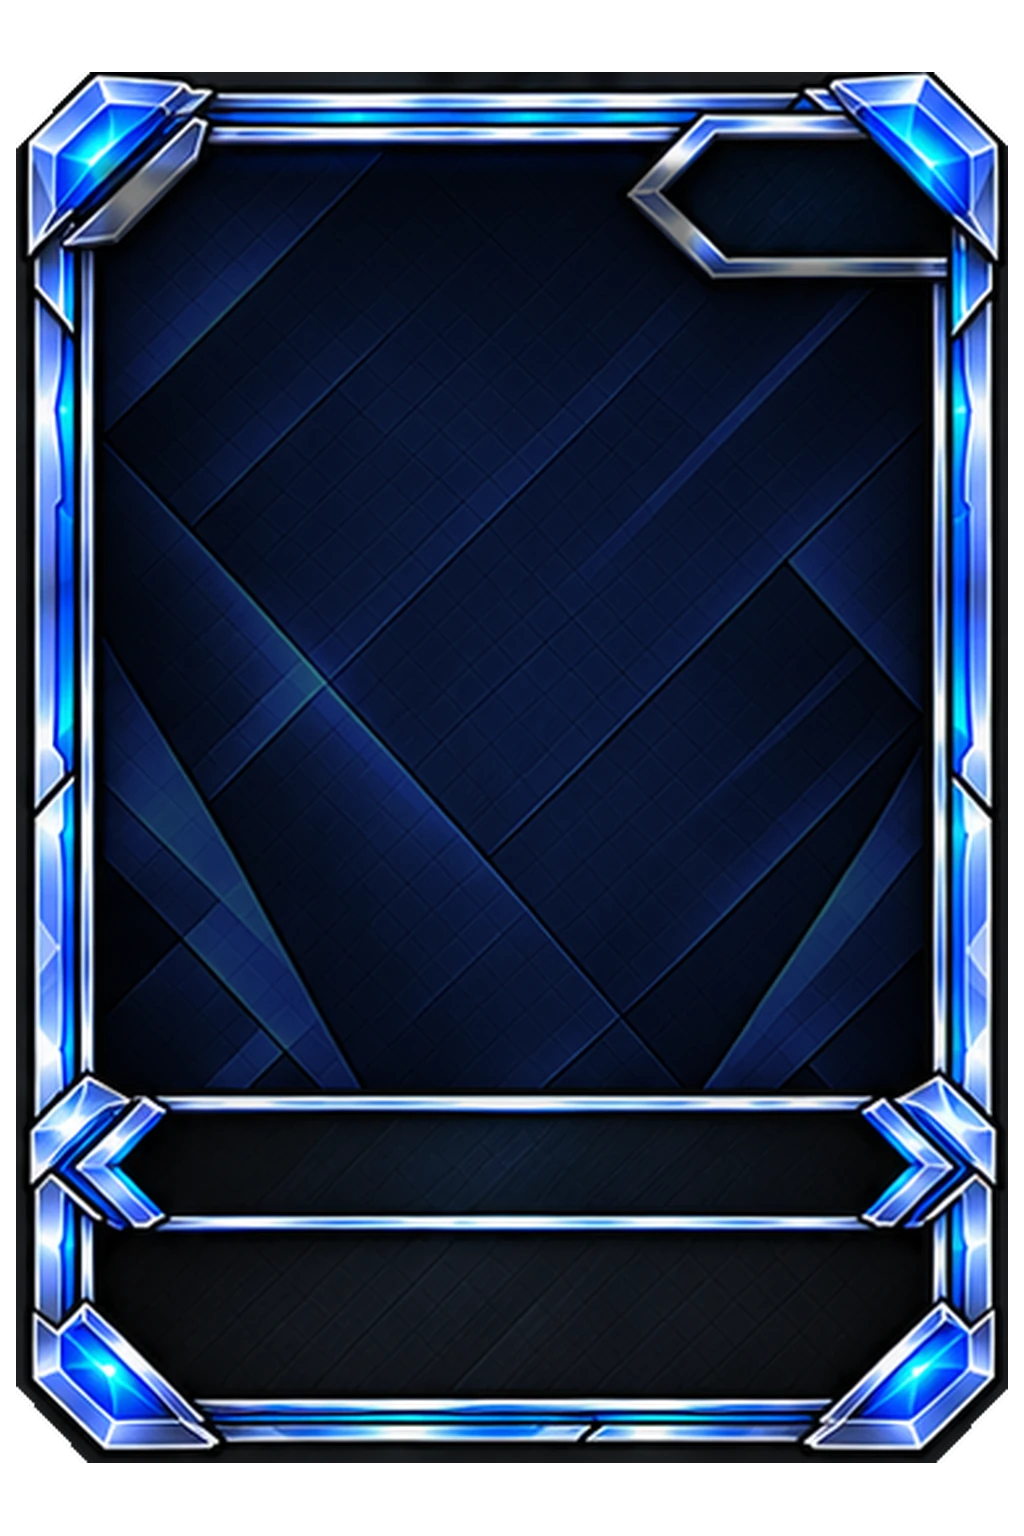
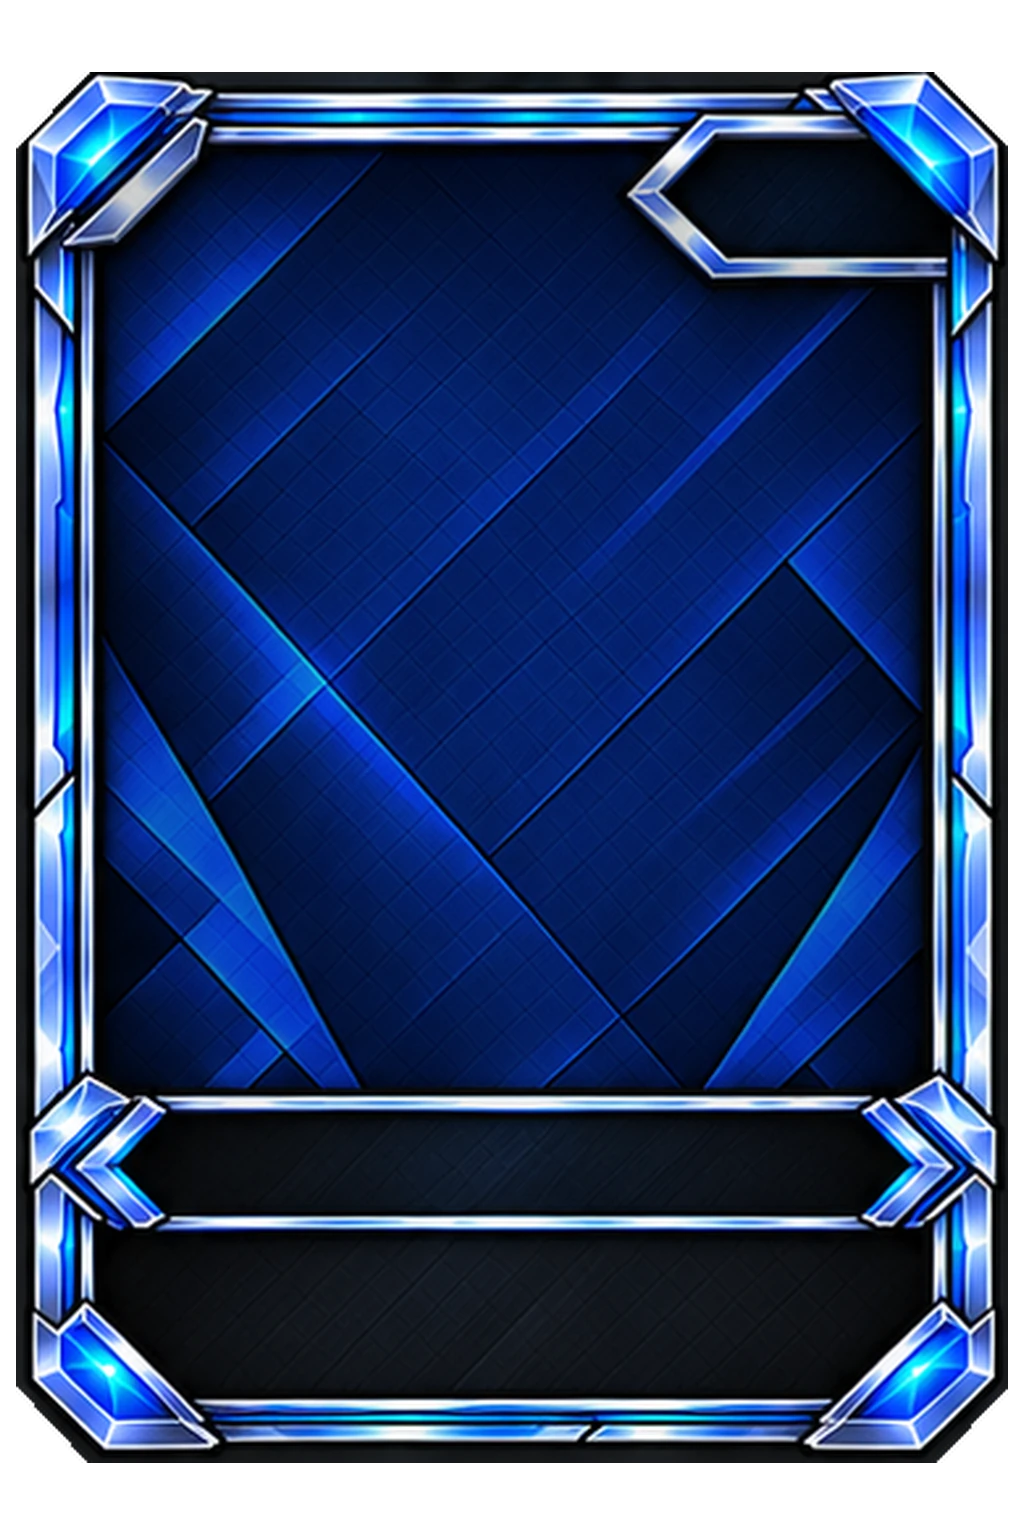
Cadres v2 : retour de la lumière dans les fonds, lumière sur UR (douce) et LR (plus forte), lettres de rareté plus grandes et intégrées
Claude-Session: https://claude.ai/code/session_01Nzi4d8Cz5nAUppiV1qqTjq

diff --git a/gymdeck-prototype/gymdeck/src/app/card-fx.css b/gymdeck-prototype/gymdeck/src/app/card-fx.css
@@ -107,8 +107,31 @@
 .fxgrid figcaption { margin-top: 12px; font-size: 14px; color: #cfd6e8; text-align: center; }
 .fxgrid figcaption b { font-family: var(--display); font-style: italic; font-size: 18px; margin-right: 4px; }
 
-/* ═════════ Cadres v2 (25 oct. 2026, demande d'Adrien) : plus aucun reflet, arc-en-ciel, lueur ni particule sur la carte ═════════
-   Les cartes rares gardent seulement l'inclinaison au doigt / à la souris. Supprimer ce bloc pour retrouver les anciens effets. */
+/* ═════════ Cadres v2 (25 oct. 2026, demandes d'Adrien) ═════════
+   C, R, SR, SSR : sobres, sans reflet ni lueur. UR : un peu de lumière. LR : plus de lumière que l'UR (reflet bleu/cyan/lavande, lueur, étincelles).
+   Toutes gardent l'inclinaison. */
 .cfx-sheen, .cfx-rainbow, .cfx-aura, .cfx-sparks, .fxl-sheen, .fxl-rainbow { display: none !important; }
-.cfx .cfx-in, .cfx-mat .card, .card.fxl-rare, .card.fxl-metal, .card.fxl-holo, .card.fxl-mat > img.frame, .card.fxl-mat .art { filter: none !important; }
-.card.fxl-mat .art, .cfx-mat .card .art { filter: drop-shadow(0 1.2cqw 1.6cqw rgba(0,0,0,.55)) !important; }
+.cfx .cfx-in, .cfx-mat .card, .card.fxl-rare, .card.fxl-metal, .card.fxl-holo, .card.fxl-mat > img.frame { filter: none !important; }
+
+/* UR : lueur dorée douce + reflet lent */
+.cfx-UR .cfx-in, .card.fxl-UR { filter: drop-shadow(0 0 2px rgba(255,214,120,.7)) drop-shadow(0 0 9px rgba(255,176,32,.35)) !important; }
+.cfx-UR .cfx-sheen, .fxl-UR .fxl-sheen { display: block !important; }
+.cfx-UR .cfx-sheen::before { content: ""; position: absolute; top: -20%; bottom: -20%; left: -60%; width: 55%; mix-blend-mode: screen;
+  background: linear-gradient(105deg, transparent, rgba(255,236,190,.06) 30%, rgba(255,236,190,.38) 50%, rgba(255,236,190,.06) 70%, transparent);
+  animation: cfxSweep 4.5s ease-in-out infinite; }
+.cfx-UR .cfx-sheen::after { content: none; }
+.fxl-UR .fxl-sheen { mix-blend-mode: screen; background: linear-gradient(115deg, transparent 32%, rgba(255,236,190,.22) 46%, transparent 58%); }
+
+/* LR : lueur bleu/cyan/lavande, reflet holographique léger, balayage de lumière, étincelles */
+.cfx-LR .cfx-in, .card.fxl-LR { filter: drop-shadow(0 0 2px rgba(190,230,255,.9)) drop-shadow(0 0 12px rgba(110,170,255,.55)) !important; }
+.cfx-LR .cfx-aura { display: block !important; background: radial-gradient(closest-side, rgba(120,190,255,.55), rgba(170,140,255,.22) 60%, transparent); }
+.cfx-LR .cfx-sheen, .cfx-LR .cfx-rainbow, .cfx-LR .cfx-sparks, .fxl-LR .fxl-sheen, .fxl-LR .fxl-rainbow { display: block !important; }
+.cfx-LR .cfx-rainbow { mix-blend-mode: soft-light; opacity: .32; }
+.cfx-LR .cfx-rainbow i, .fxl-LR .fxl-rainbow { background: repeating-linear-gradient(115deg, #7fd3ff 0%, #c9b6ff 8%, #e9f7ff 14%, #6aa8ff 21%, #b49bff 27%, #7fd3ff 33.33%) !important; }
+.fxl-LR .fxl-rainbow { mix-blend-mode: soft-light; opacity: .28 !important; }
+.cfx-LR .cfx-sheen::before { content: ""; position: absolute; top: -20%; bottom: -20%; left: -60%; width: 60%; mix-blend-mode: screen;
+  background: linear-gradient(105deg, transparent, rgba(220,240,255,.08) 30%, rgba(230,245,255,.55) 50%, rgba(220,240,255,.08) 70%, transparent);
+  animation: cfxSweep 3.4s ease-in-out infinite; }
+.cfx-LR .cfx-sheen::after { content: none; }
+.cfx-LR .cfx-sparks i { box-shadow: 0 0 6px 1px #9fd8ff; }
+.fxl-LR .fxl-sheen { mix-blend-mode: screen; background: linear-gradient(115deg, transparent 30%, rgba(230,245,255,.3) 45%, transparent 58%); }

diff --git a/gymdeck-prototype/gymdeck/src/app/globals.css b/gymdeck-prototype/gymdeck/src/app/globals.css
@@ -89,7 +89,11 @@ h2.section { font-family: var(--display); font-style: italic; font-weight: 800; 
 .card .artwin { position: absolute; inset: 0; overflow: hidden; pointer-events: none; }
 .card .art { position: absolute; object-fit: contain; object-position: center bottom; filter: drop-shadow(0 1.2cqw 1.6cqw rgba(0,0,0,.55)); }
 .card .artwin .floor { position: absolute; border-radius: 50%; background: radial-gradient(closest-side, rgba(0,0,0,.6), transparent); }
-.card .badge { position: absolute; display: grid; place-items: center; font-family: var(--display); font-style: italic; font-weight: 800; font-size: 7.4cqw; line-height: 1; padding-right: 1.6cqw; }
+.card .badge { position: absolute; display: grid; place-items: center; font-family: var(--display); font-style: italic; font-weight: 900; font-size: 10cqw; line-height: 1; letter-spacing: -.02em; padding-right: 1.4cqw; z-index: 2; }
+/* lettre de rareté intégrée au cartouche : dégradé de la couleur vers le blanc, contour sombre, relief */
+.card .badge > b { font-weight: 900; background: linear-gradient(180deg, #fff 0%, var(--bc) 55%, color-mix(in srgb, var(--bc) 60%, #000) 100%); -webkit-background-clip: text; background-clip: text; color: transparent;
+  -webkit-text-stroke: .35cqw rgba(0,0,0,.75); paint-order: stroke fill; filter: drop-shadow(0 .5cqw .5cqw rgba(0,0,0,.6)); }
+.card .badge.long { font-size: 8.4cqw; }
 .card .nameband { position: absolute; display: flex; align-items: center; justify-content: center; text-align: center; font-family: var(--display); font-style: italic; font-weight: 800; text-transform: uppercase; font-size: 7cqw; line-height: .98; padding: 0 2cqw; overflow: hidden; }
 .card .nameband > span { line-height: 1.15; padding-top: .08em; display: -webkit-box; -webkit-line-clamp: 2; -webkit-box-orient: vertical; overflow: hidden; overflow-wrap: anywhere; }
 .card .cstats { position: absolute; display: grid; grid-template-columns: auto auto 1fr; align-items: center; align-content: center; column-gap: 1.4cqw; row-gap: .4cqw; }

diff --git a/gymdeck-prototype/gymdeck/src/components/Card.tsx b/gymdeck-prototype/gymdeck/src/components/Card.tsx
@@ -61,7 +61,7 @@ export function Card({ card, count, holo = true, cap = true, hideStats = false }
           }}
         />
       </div>
-      <span className="badge" style={{ ...pos(L.rarity), color }}>{card.rarity}</span>
+      <span className={`badge ${card.rarity.length > 2 ? "long" : ""}`} style={{ ...pos(L.rarity), ["--bc" as string]: color }}><b>{card.rarity}</b></span>
       {/* note de Basile : patch dans l'espace libre en haut au centre (rien du tout si la carte n'est pas notée) */}
       {card.grade ? <GradePatch grade={card.grade} className="oncard" style={{ left: "38%", top: `${(L.rarity.y + 0.004) * 100}%` }} /> : null}
       <div className="nameband" style={{ ...pos(L.title), ...(n > 26 ? { fontSize: "4.6cqw" } : n > 18 ? { fontSize: "5.4cqw" } : {}) }}>
